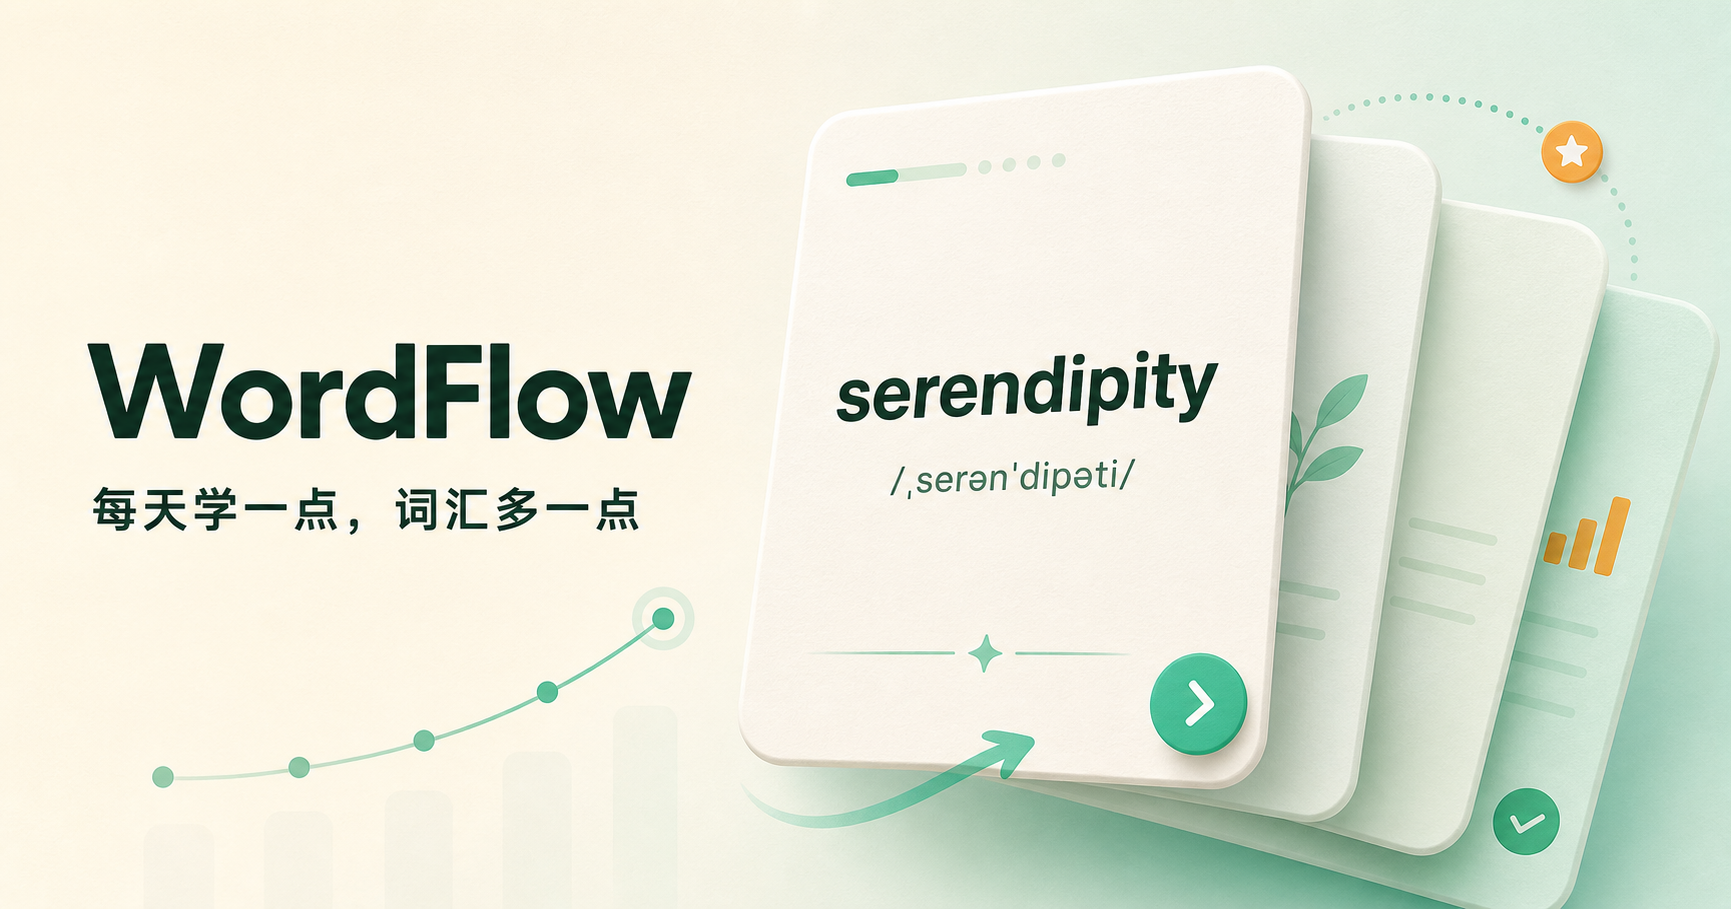
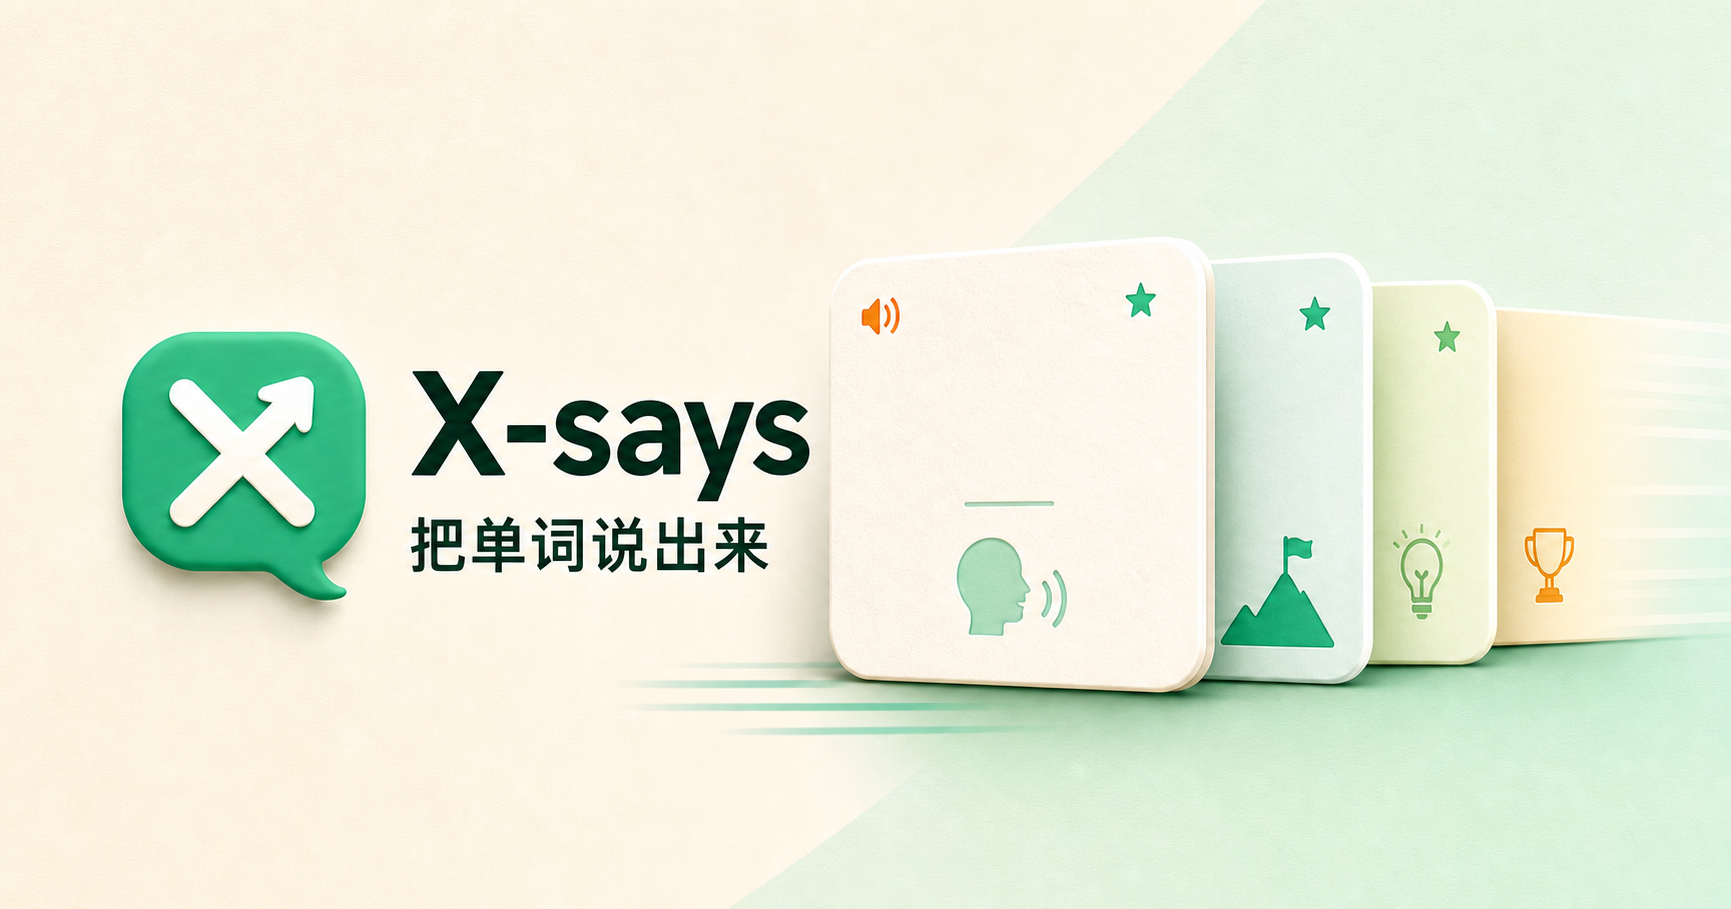
Add local user progress and X-says branding

diff --git a/app/WordApp.tsx b/app/WordApp.tsx
@@ -37,6 +37,46 @@ const words: Word[] = [
 
 type Screen = "library" | "plan" | "study" | "done" | "profile";
 
+type LocalUser = {
+  totalLearned: number;
+  totalKnown: number;
+  reviewCount: number;
+  streak: number;
+  completedDays: number;
+  lastStudyDate: string;
+};
+
+type LocalSession = {
+  date: string;
+  libraryId: string;
+  daily: number;
+  index: number;
+  known: number;
+  review: number;
+};
+
+const emptyUser: LocalUser = {
+  totalLearned: 0,
+  totalKnown: 0,
+  reviewCount: 0,
+  streak: 0,
+  completedDays: 0,
+  lastStudyDate: "",
+};
+
+const dateKey = (date = new Date()) => {
+  const year = date.getFullYear();
+  const month = String(date.getMonth() + 1).padStart(2, "0");
+  const day = String(date.getDate()).padStart(2, "0");
+  return `${year}-${month}-${day}`;
+};
+
+const yesterdayKey = () => {
+  const date = new Date();
+  date.setDate(date.getDate() - 1);
+  return dateKey(date);
+};
+
 export default function WordApp() {
   const [screen, setScreen] = useState<Screen>("library");
   const [library, setLibrary] = useState<Library>(libraries[0]);
@@ -45,16 +85,40 @@ export default function WordApp() {
   const [flipped, setFlipped] = useState(false);
   const [known, setKnown] = useState(0);
   const [review, setReview] = useState(0);
+  const [user, setUser] = useState<LocalUser>(emptyUser);
+  const [hasSavedSession, setHasSavedSession] = useState(false);
   const [dragX, setDragX] = useState(0);
   const [dragging, setDragging] = useState(false);
   const startX = useRef(0);
+  const answerLock = useRef(false);
 
   useEffect(() => {
-    const saved = window.localStorage.getItem("wordflow-plan");
-    if (saved) {
-      const parsed = JSON.parse(saved) as { libraryId: string; daily: number };
-      setLibrary(libraries.find((item) => item.id === parsed.libraryId) ?? libraries[0]);
-      setDaily(parsed.daily);
+    try {
+      const savedPlan = window.localStorage.getItem("wordflow-plan");
+      const savedUser = window.localStorage.getItem("wordflow-user-v1");
+      const savedSession = window.localStorage.getItem("wordflow-session-v1");
+
+      if (savedPlan) {
+        const parsed = JSON.parse(savedPlan) as { libraryId: string; daily: number };
+        setLibrary(libraries.find((item) => item.id === parsed.libraryId) ?? libraries[0]);
+        setDaily(parsed.daily);
+      }
+      if (savedUser) setUser({ ...emptyUser, ...(JSON.parse(savedUser) as LocalUser) });
+      if (savedSession) {
+        const session = JSON.parse(savedSession) as LocalSession;
+        if (session.date === dateKey() && session.index < session.daily) {
+          setLibrary(libraries.find((item) => item.id === session.libraryId) ?? libraries[0]);
+          setDaily(session.daily);
+          setIndex(session.index);
+          setKnown(session.known);
+          setReview(session.review);
+          setHasSavedSession(true);
+        } else {
+          window.localStorage.removeItem("wordflow-session-v1");
+        }
+      }
+    } catch {
+      window.localStorage.removeItem("wordflow-session-v1");
     }
   }, []);
 
@@ -62,6 +126,7 @@ export default function WordApp() {
   const current = words[index % words.length];
   const studyNumber = Math.min(index + 1, daily);
   const remainingDays = Math.ceil(library.total / daily);
+  const masteryRate = user.totalLearned ? Math.round((user.totalKnown / user.totalLearned) * 100) : 0;
 
   const selectLibrary = (item: Library) => {
     setLibrary(item);
@@ -70,26 +135,72 @@ export default function WordApp() {
 
   const startStudy = () => {
     window.localStorage.setItem("wordflow-plan", JSON.stringify({ libraryId: library.id, daily }));
-    setIndex(0);
-    setKnown(0);
-    setReview(0);
+    const session = window.localStorage.getItem("wordflow-session-v1");
+    const parsed = session ? JSON.parse(session) as LocalSession : null;
+    const canResume = parsed?.date === dateKey() && parsed.libraryId === library.id && parsed.daily === daily && parsed.index < daily;
+    setIndex(canResume ? parsed.index : 0);
+    setKnown(canResume ? parsed.known : 0);
+    setReview(canResume ? parsed.review : 0);
+    setHasSavedSession(Boolean(canResume));
     setFlipped(false);
     setScreen("study");
   };
 
   const answer = (remembered: boolean) => {
-    if (remembered) setKnown((value) => value + 1);
-    else setReview((value) => value + 1);
-    if (index + 1 >= daily) {
+    if (answerLock.current) return;
+    answerLock.current = true;
+    const nextIndex = index + 1;
+    const nextKnown = known + (remembered ? 1 : 0);
+    const nextReview = review + (remembered ? 0 : 1);
+    const finishing = nextIndex >= daily;
+    setKnown(nextKnown);
+    setReview(nextReview);
+
+    setUser((previous) => {
+      const today = dateKey();
+      const firstStudyToday = previous.lastStudyDate !== today;
+      const nextUser: LocalUser = {
+        totalLearned: previous.totalLearned + 1,
+        totalKnown: previous.totalKnown + (remembered ? 1 : 0),
+        reviewCount: previous.reviewCount + (remembered ? 0 : 1),
+        streak: firstStudyToday ? (previous.lastStudyDate === yesterdayKey() ? previous.streak + 1 : 1) : previous.streak,
+        completedDays: previous.completedDays + (finishing ? 1 : 0),
+        lastStudyDate: today,
+      };
+      window.localStorage.setItem("wordflow-user-v1", JSON.stringify(nextUser));
+      return nextUser;
+    });
+
+    if (finishing) {
+      window.localStorage.removeItem("wordflow-session-v1");
+      setHasSavedSession(false);
       setScreen("done");
+      answerLock.current = false;
     } else {
+      const session: LocalSession = { date: dateKey(), libraryId: library.id, daily, index: nextIndex, known: nextKnown, review: nextReview };
+      window.localStorage.setItem("wordflow-session-v1", JSON.stringify(session));
+      setHasSavedSession(true);
       setDragX(remembered ? 520 : -520);
       window.setTimeout(() => {
-        setIndex((value) => value + 1);
+        setIndex(nextIndex);
         setFlipped(false);
         setDragX(0);
+        answerLock.current = false;
       }, 180);
     }
+  };
+
+  const resetLocalData = () => {
+    if (!window.confirm("确定清空这台设备上的学习记录吗？")) return;
+    ["wordflow-plan", "wordflow-user-v1", "wordflow-session-v1"].forEach((key) => window.localStorage.removeItem(key));
+    setUser(emptyUser);
+    setLibrary(libraries[0]);
+    setDaily(20);
+    setIndex(0);
+    setKnown(0);
+    setReview(0);
+    setHasSavedSession(false);
+    setScreen("library");
   };
 
   const speak = () => {
@@ -122,7 +233,7 @@ export default function WordApp() {
     if (screen === "library") return "选择词书";
     if (screen === "plan") return "制定计划";
     if (screen === "profile") return "学习档案";
-    return "WordFlow";
+    return "X-says";
   }, [screen]);
 
   return (
@@ -130,13 +241,13 @@ export default function WordApp() {
       <div className={`phone-app screen-${screen}`}>
         <header className="app-header">
           <button className="icon-button" aria-label="返回" onClick={() => setScreen(screen === "plan" ? "library" : "library")}>
-            {screen === "library" ? <span className="brand-dot">W</span> : <span aria-hidden="true">‹</span>}
+            {screen === "library" ? <span className="brand-dot" aria-label="X-says">×</span> : <span aria-hidden="true">‹</span>}
           </button>
           <div>
-            <p className="eyebrow">WORD FLOW</p>
+            <p className="eyebrow">X-SAYS · SPEAK IT</p>
             <h1>{title}</h1>
           </div>
-          <button className="streak" aria-label="连续学习 7 天"><span aria-hidden="true">◆</span> 7</button>
+          <button className="streak" aria-label={`连续学习 ${user.streak} 天`} onClick={() => setScreen("profile")}><span aria-hidden="true">◆</span> {user.streak}</button>
         </header>
 
         {screen === "library" && (
@@ -146,6 +257,7 @@ export default function WordApp() {
               <h2>今天想背哪本？</h2>
               <p>选一本适合你当前目标的词书</p>
             </div>
+            <div className="local-save-note"><span>✓</span><p><b>本机用户·已自动保存</b><small>{hasSavedSession ? `今日已学 ${index} 词，点击当前词书继续` : user.totalLearned ? `已累计学习 ${user.totalLearned} 词` : "学习记录只保存在这台设备"}</small></p></div>
             <div className="library-list">
               {libraries.map((item, itemIndex) => (
                 <button className={`library-card ${item.tone}`} key={item.id} onClick={() => selectLibrary(item)}>
@@ -255,10 +367,11 @@ export default function WordApp() {
 
         {screen === "profile" && (
           <section className="content profile-screen">
-            <div className="profile-hero"><span>W</span><h2>学习者</h2><p>已连续学习 7 天</p></div>
-            <div className="profile-grid"><div><b>142</b><small>累计学习</small></div><div><b>86%</b><small>掌握率</small></div></div>
+            <div className="profile-hero"><span>×</span><h2>本机学习者</h2><p>已连续学习 {user.streak} 天</p><small>无需登录 · 数据仅存在当前设备</small></div>
+            <div className="profile-grid"><div><b>{user.totalLearned}</b><small>累计学习</small></div><div><b>{masteryRate}%</b><small>掌握率</small></div><div><b>{user.reviewCount}</b><small>待复习</small></div></div>
             <button className="settings-row" onClick={() => setScreen("plan")}><span>◎</span><b>学习计划</b><small>{daily} 词/天 ›</small></button>
             <button className="settings-row" onClick={() => setScreen("library")}><span>▤</span><b>我的词书</b><small>{library.level} ›</small></button>
+            <button className="settings-row danger-row" onClick={resetLocalData}><span>↺</span><b>清空本机记录</b><small>不可恢复 ›</small></button>
           </section>
         )}
 
@@ -270,14 +383,6 @@ export default function WordApp() {
           </nav>
         )}
       </div>
-      <aside className="desktop-note">
-        <span className="note-logo">W</span>
-        <h2>把零碎时间<br />变成词汇量</h2>
-        <p>选词书 · 定节奏 · 滑卡学习</p>
-        <div className="gesture-demo"><span>←</span><i />
-          <span>→</span></div>
-        <small>支持鼠标拖动、触屏滑动与键盘方向键</small>
-      </aside>
     </main>
   );
 }

diff --git a/app/globals.css b/app/globals.css
@@ -20,14 +20,14 @@ body {
   font-family: "PingFang SC", "Microsoft YaHei", "Noto Sans SC", Arial, sans-serif;
 }
 
-.page-shell { min-height: 100vh; display: flex; align-items: center; justify-content: center; gap: 92px; padding: 32px; background: radial-gradient(circle at 20% 18%, #f6faf5 0, transparent 32%), linear-gradient(135deg, #dcebe2, #f5f2e9 65%); }
-.phone-app { position: relative; width: 430px; height: min(884px, calc(100vh - 48px)); min-height: 700px; overflow: hidden; background: #fbfcf9; border: 8px solid #17251f; border-radius: 44px; box-shadow: 0 35px 90px rgba(35, 64, 50, .22), inset 0 0 0 1px rgba(255,255,255,.7); }
+.page-shell { min-height: 100vh; display: flex; align-items: stretch; justify-content: center; padding: 0; background: #fbfcf9; }
+.phone-app { position: relative; width: 100%; max-width: 600px; height: 100dvh; min-height: 680px; overflow: hidden; background: #fbfcf9; }
 .app-header { height: 102px; display: grid; grid-template-columns: 42px 1fr 52px; align-items: center; gap: 12px; padding: 20px 22px 10px; }
 .app-header h1 { margin: 1px 0 0; font-size: 18px; line-height: 1.1; letter-spacing: -.02em; }
 .eyebrow { margin: 0; color: #9aa39d; font: 700 9px/1.2 Arial; letter-spacing: .18em; }
 .icon-button { width: 38px; height: 38px; border: 0; border-radius: 13px; background: #eef3ee; color: var(--ink); cursor: pointer; font-size: 28px; line-height: 1; display: grid; place-items: center; }
-.brand-dot, .note-logo { background: var(--mint); color: white; font: 800 17px/1 Arial; display: grid; place-items: center; }
-.brand-dot { width: 38px; height: 38px; border-radius: 13px; }
+.brand-dot { position:relative; width: 38px; height: 38px; border-radius: 13px 13px 13px 7px; background: var(--mint); color: white; font: 900 24px/1 Arial; display:grid; place-items:center; transform:rotate(-4deg); }
+.brand-dot::after { content:""; position:absolute; left:3px; bottom:-4px; width:10px; height:10px; background:var(--mint); clip-path:polygon(0 0,100% 0,0 100%); }
 .streak { justify-self: end; border: 0; background: #fff4d9; color: #be7b19; height: 34px; padding: 0 10px; border-radius: 11px; font-weight: 800; font-size: 13px; }
 .streak span { color: #ff9a2f; }
 .content { height: calc(100% - 177px); overflow-y: auto; padding: 10px 22px 24px; scrollbar-width: none; }
@@ -45,6 +45,7 @@ body {
 .book-cover b { font-size: 12px; letter-spacing: .05em; }.book-cover i { font: 800 22px/1 Georgia; opacity: .9; }
 .book-info { min-width: 0; display: flex; flex-direction: column; }.book-title { font-size: 15px; font-weight: 800; }.book-subtitle { margin-top: 5px; color: var(--muted); font-size: 11px; }.book-meta { margin-top: 13px; color: #9ba29d; font-size: 10px; }.book-meta b { color: var(--ink); font-size: 13px; }.book-meta i { font-style: normal; margin-left: 8px; padding-left: 8px; border-left: 1px solid #ddd; }.arrow { color: #aeb7b1; font-size: 25px; }
 .import-link { width: 100%; padding: 18px 0; border: 0; background: transparent; color: var(--mint-dark); font-size: 13px; font-weight: 700; cursor: pointer; }.import-link span { display: inline-grid; place-items: center; width: 23px; height: 23px; border-radius: 8px; background: var(--mint-soft); }
+.local-save-note{display:flex;align-items:center;gap:10px;margin:0 0 13px;padding:11px 12px;background:#eef8f2;border:1px solid #d9eee3;border-radius:15px}.local-save-note>span{width:27px;height:27px;display:grid;place-items:center;flex:0 0 auto;border-radius:9px;background:var(--mint);color:white;font-size:12px}.local-save-note p{display:flex;flex-direction:column;gap:2px;margin:0;text-align:left}.local-save-note b{font-size:11px}.local-save-note small{color:#738078;font-size:9px}
 .bottom-nav { position: absolute; left: 0; right: 0; bottom: 0; height: 75px; display: grid; grid-template-columns: repeat(3,1fr); background: rgba(255,255,255,.94); border-top: 1px solid var(--line); backdrop-filter: blur(15px); padding: 8px 35px 13px; }
 .bottom-nav button { border: 0; background: transparent; color: #99a19b; display: flex; flex-direction: column; align-items: center; gap: 2px; cursor: pointer; }.bottom-nav span { font-size: 22px; line-height: 1; }.bottom-nav small { font-size: 10px; }.bottom-nav .active { color: var(--mint-dark); font-weight: 800; }
 .plan-screen { padding-top: 4px; }.step-track { width: 100%; height: 3px; background: #e6ebe7; border-radius: 4px; margin: 5px 0 18px; overflow: hidden; }.step-track span { display: block; height: 100%; background: var(--mint); }.selected-book { margin: 21px 0 13px; display: grid; grid-template-columns: 45px 1fr auto; gap: 11px; align-items: center; padding: 11px; border-radius: 17px; background: #f0f5f0; }.tiny-cover { width: 42px; height: 52px; border-radius: 6px 9px 9px 6px; display: grid; place-items: center; color: white; font: 700 8px Arial; box-shadow: inset 4px 0 rgba(0,0,0,.08); }.tiny-cover.mint{background:#3cbf8c}.tiny-cover.blue{background:#5781d8}.tiny-cover.orange{background:#e89355}.selected-book span:nth-child(2){display:flex;flex-direction:column;gap:3px}.selected-book small{color:#89928c;font-size:9px}.selected-book b{font-size:13px}.selected-book button{border:0;background:white;color:var(--mint-dark);font-size:11px;font-weight:700;padding:7px 9px;border-radius:9px;cursor:pointer}
@@ -55,10 +56,11 @@ body {
 .desktop-note{width:390px}.note-logo{width:54px;height:54px;border-radius:17px;font-size:22px;box-shadow:0 9px 22px rgba(46,189,133,.28)}.desktop-note h2{font-size:45px;line-height:1.18;letter-spacing:-.055em;margin:26px 0 14px}.desktop-note p{color:#68746d;font-size:14px;letter-spacing:.08em}.desktop-note>small{display:block;color:#88928c;font-size:11px;margin-top:16px}.gesture-demo{display:flex;align-items:center;gap:17px;margin-top:60px;color:#8b9690}.gesture-demo i{width:126px;height:164px;display:block;border-radius:22px;background:white;box-shadow:-20px 10px 0 rgba(255,255,255,.5),20px 10px 0 rgba(255,255,255,.5),0 18px 38px rgba(48,75,62,.12);transform:rotate(-5deg);animation:float 3s ease-in-out infinite}.gesture-demo span{font-size:25px}
 @keyframes reveal{from{opacity:0;transform:translateY(7px)}to{opacity:1;transform:none}}@keyframes float{50%{transform:translateY(-8px) rotate(4deg)}}
 
+.profile-hero>span{font-size:34px;border-radius:24px 24px 24px 10px}.profile-hero>small{display:block;margin-top:9px;color:#909a94;font-size:9px}.profile-grid{grid-template-columns:repeat(3,1fr);gap:8px}.profile-grid div{padding:15px 5px}.profile-grid b{font-size:23px}.profile-grid small{font-size:8px}.danger-row{margin-top:12px;color:#ad5b55}.danger-row>span{color:#ad5b55}
+
 @media (max-width: 900px) {
-  .page-shell { padding: 0; display: block; background: #fbfcf9; }
-  .phone-app { width: 100%; min-height: 100dvh; height: 100dvh; border: 0; border-radius: 0; box-shadow: none; }
-  .desktop-note { display: none; }
+  .page-shell { display: block; }
+  .phone-app { max-width: none; min-height: 100dvh; }
 }
-@media (max-height: 760px) and (min-width: 901px) { .phone-app { min-height: 680px; }.word-main{padding-top:55px}.card-stage{min-height:400px}.content{padding-bottom:16px}.library-card{min-height:105px}.book-cover{height:80px} }
+@media (max-height: 760px) { .phone-app { min-height: 680px; }.word-main{padding-top:55px}.card-stage{min-height:400px}.content{padding-bottom:16px}.library-card{min-height:105px}.book-cover{height:80px} }
 @media (prefers-reduced-motion: reduce) { *,*::before,*::after { animation-duration:.01ms!important; transition-duration:.01ms!important; } }

diff --git a/app/layout.tsx b/app/layout.tsx
@@ -9,12 +9,13 @@ export async function generateMetadata(): Promise<Metadata> {
   const imageUrl = `${protocol}://${host}/og.png`;
 
   return {
-    title: "WordFlow · 每天学一点",
+    title: "X-says · 把单词说出来",
     description: "用滑动单词卡完成每日词汇任务。",
+    icons: { icon: "/xsays-icon.png", apple: "/xsays-icon.png" },
     openGraph: {
-      title: "WordFlow · 每天学一点",
+      title: "X-says · 把单词说出来",
       description: "选词书、定节奏，用滑动卡片轻松背单词。",
-      images: [{ url: imageUrl, width: 1200, height: 630, alt: "WordFlow 单词卡" }],
+      images: [{ url: imageUrl, width: 1200, height: 630, alt: "X-says 单词卡" }],
     },
     twitter: { card: "summary_large_image", images: [imageUrl] },
   };
